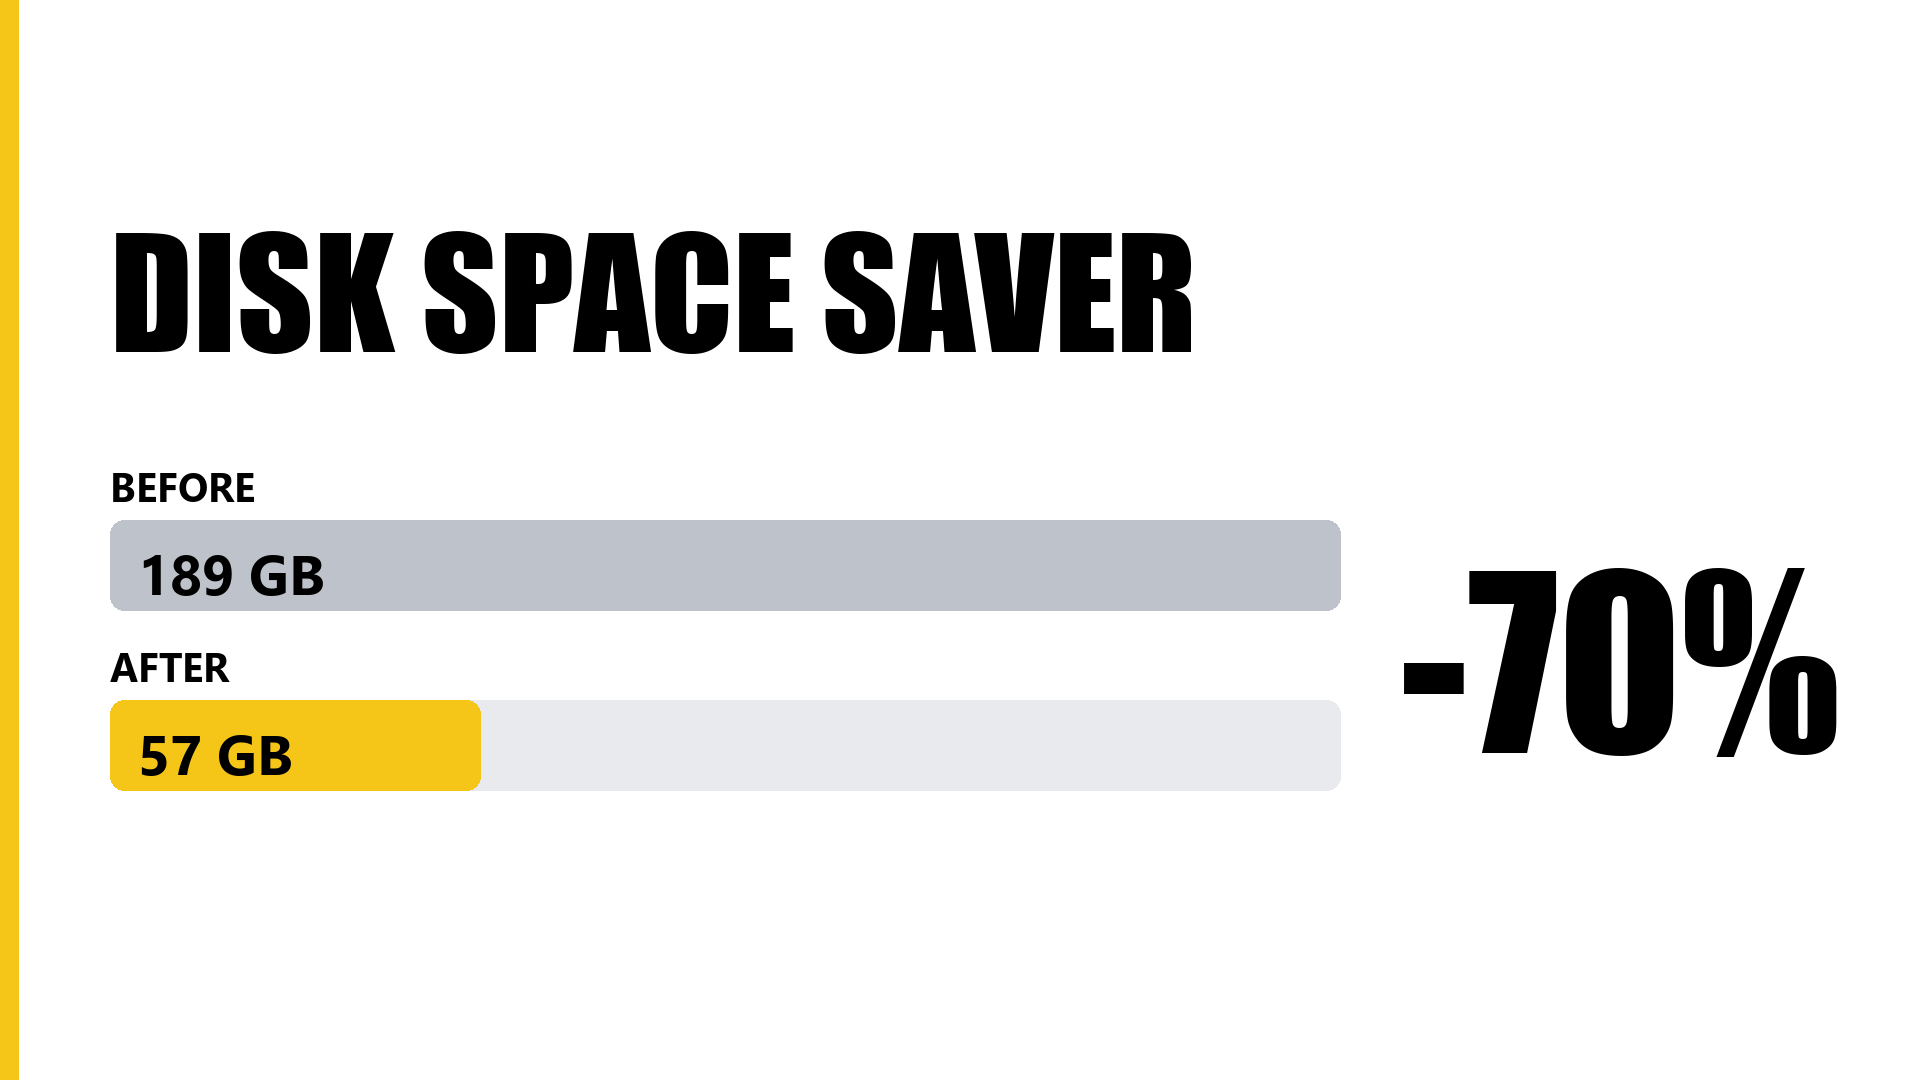
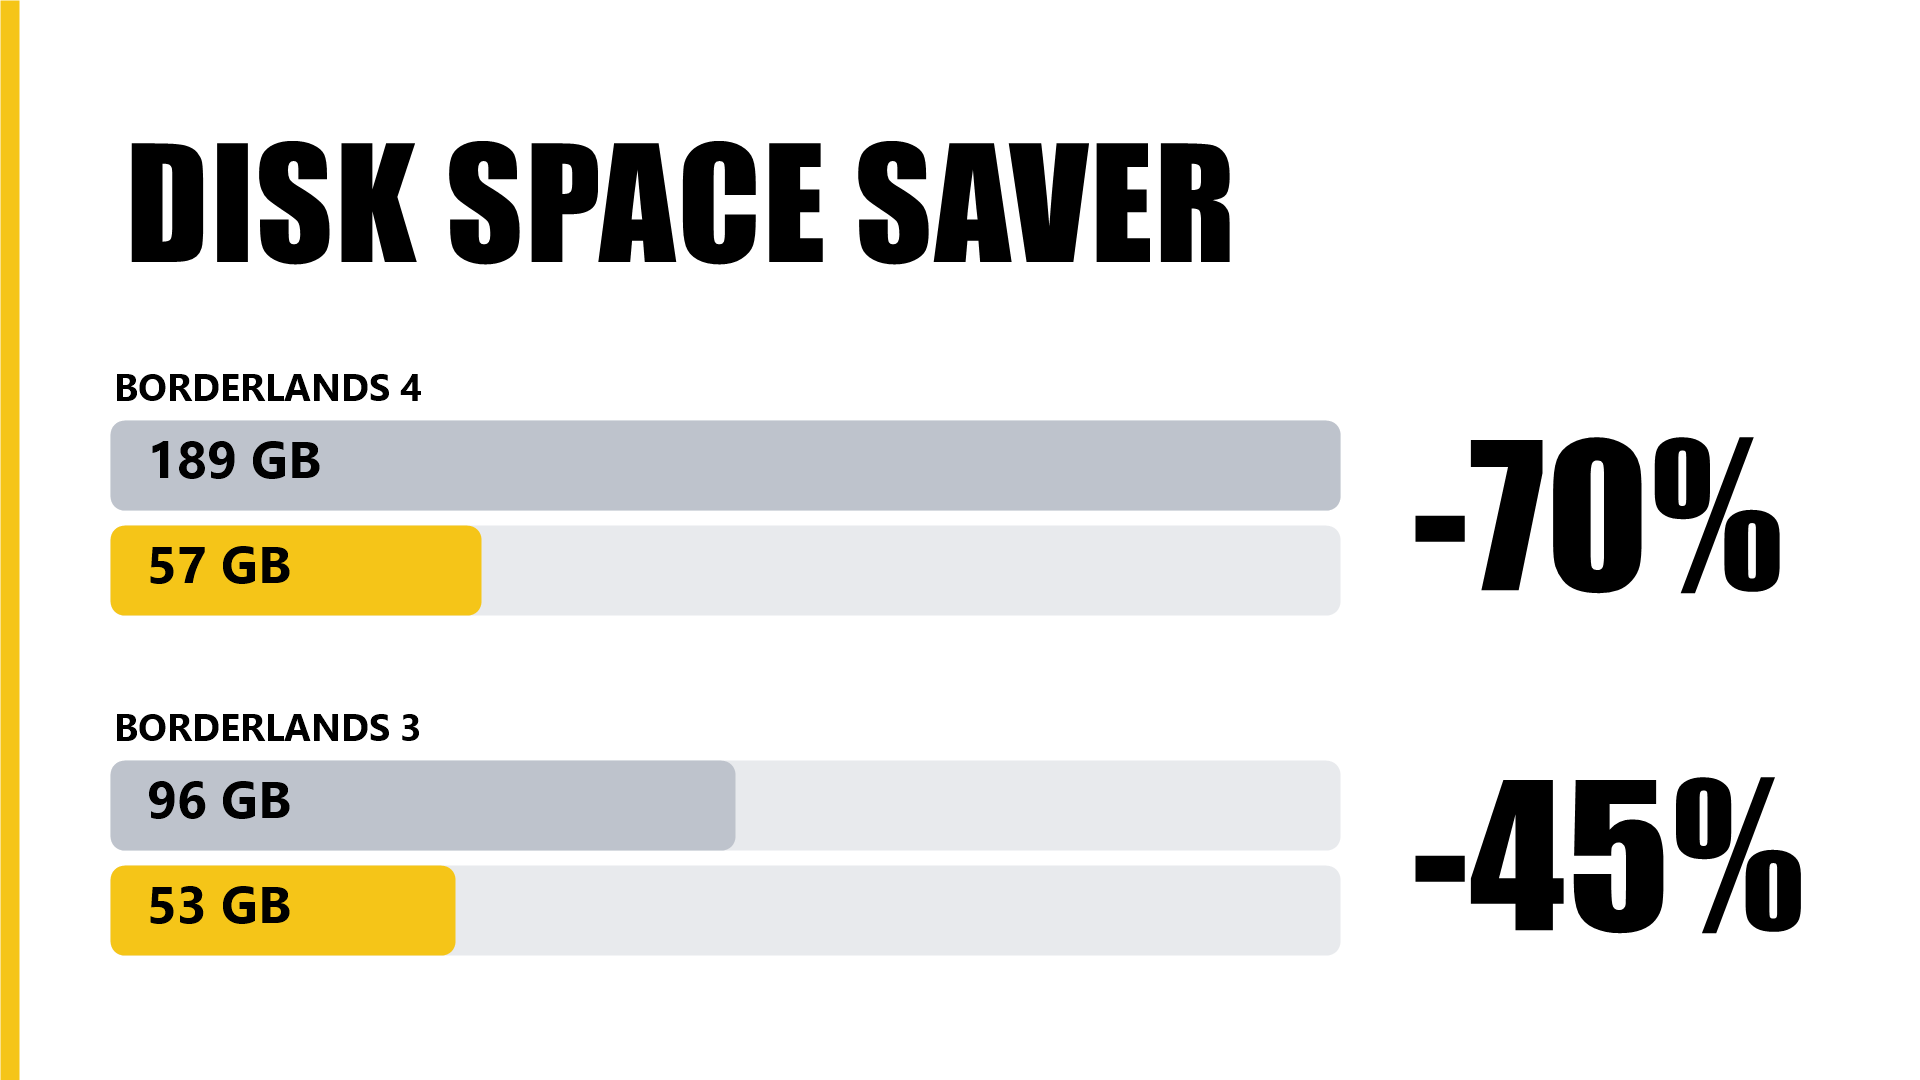
Rename to bl-slim and cover both games (#13)
Script, launcher, README and strings no longer say bl4. The README
opens with a short story and the results for both games.

Changed region(s): [[0.0312, 0.1222, 0.9688, 0.8861]]

diff --git a/README.md b/README.md
@@ -1,27 +1,39 @@
-# bl4-slim
+# bl-slim
 
-![Disk Space Saver: 189 GB before, 57 GB after, 70% smaller](docs/header.png)
+![Disk Space Saver: Borderlands 4 189 GB to 57 GB, Borderlands 3 96 GB to 53 GB](docs/header.png)
 
-Shrinks a Borderlands 4 install on Windows.
+Shrinks a Borderlands install on Windows.
+## Story
 
-## What it removes
+Bl4 took up 189 GB. memory is expensive these days :(
+Bl4 installs the voices for every language and keeps old copies of data that updates replaced. Bl3 turned out to be the same. 
+Looked into it due to some community requests.
 
-1. **Voice languages you don't use.** Steam installs the voices for all 8 languages, each is ~9gb. Keep only the one you use.
-2. **Old patch data.** Every update adds new pak files and the old ones take up space. The game only reads the newest copy. The old copies share files with data the game still needs. 
+| Game | Before | After | Saved |
+|---|---|---|---|
+| Borderlands 4 | 189 GB | 57 GB | 70% |
+| Borderlands 3 | 96 GB | 53 GB | 45% |
+
+## Removes
+
+1. **Voice languages you don't use.** Steam installs the voices for all 8 languages, each is 4 to 9 GB. Keep the ones you use. English is always kept\*, we think the game needs it.
+2. **Old patch data.** Every update adds new pak files and the old ones take up space. The game only reads the newest copy. The old copies share files with data the game still needs.
 The script blanks only the dead byte ranges (NTFS sparse files).
 
 It reads the game's own file indexes to work out what to do, so it keeps working after updates.
 
+Borderlands 3 locks its file lists with a key. The key sits inside your own `Borderlands3.exe`, so the script reads it from there and checks it against each file. No key is included here.
+
 ## How to use
 
 1. Close the game and let Steam finish any update.
-2. Download the zip, unzip it anywhere, and double-click `bl4-slim.cmd`.
+2. Download the zip, unzip it anywhere, and double-click `bl-slim.cmd`.
 3. Pick the voice languages to keep. Use the ones your game's voice settings are on. Type more than one number to keep several, like `1,3`. Enter keeps English.
 4. It shows what it will remove. Type `y` to go ahead.
 
 Run it again after every game update, updates unfortunately bring the old copies back.
 
-It finds the game through Steam on its own. If it can't (Epic, or an unusual setup), it asks you to paste the game folder.
+It finds the games through Steam on its own. If you have both, it does both. If it can't find one (Epic, or an unusual setup), it asks you to paste the game folder.
 
 ### Options
 
@@ -29,15 +41,23 @@ From a command prompt in the unzipped folder:
 
 | Command | What it does |
 |---|---|
-| `bl4-slim.cmd -Scan` | shows what it would remove. Your game files stay as they are, but it makes and deletes one 8 MB test file in the Paks folder |
-| `bl4-slim.cmd -Keep German` | keeps German without asking |
-| `bl4-slim.cmd -Keep "German,English(US)"` | keeps both |
-| `bl4-slim.cmd -GameDir "D:\Games\Borderlands 4"` | uses that game folder |
-| `bl4-slim.cmd -Yes` | skips the "Go ahead?" question |
+| `bl-slim.cmd -Scan` | shows what it would remove. Your game files stay as they are, but it makes and deletes one 8 MB test file in the Paks folder |
+| `bl-slim.cmd -Keep German` | keeps German without asking (English is kept too\*) |
+| `bl-slim.cmd -Keep "German,English(US)"` | keeps both |
+| `bl-slim.cmd -GameDir "D:\Games\Borderlands 3"` | uses that game folder (Borderlands 3 or 4) |
+| `bl-slim.cmd -Yes` | skips the "Go ahead?" question |
 
 ## Undo
 
 In Steam, open Properties, then run "Verify integrity of game files". Steam grabs all the files again.
+
+## \*Why English is always kept
+
+One user kept only the Korean voices and deleted English in Borderlands 4. The first mission then showed a "required content" pop-up. With English back it worked. We think the game needs the English voice files, but this needs more digging.
+
+A Reddit post about deleting Borderlands 3's English voice files has a comment that the game then crashed on startup, so English is kept there too.
+
+Thanks to SolTeLu on Nexus Mods for finding it.
 
 ## Tested
 
